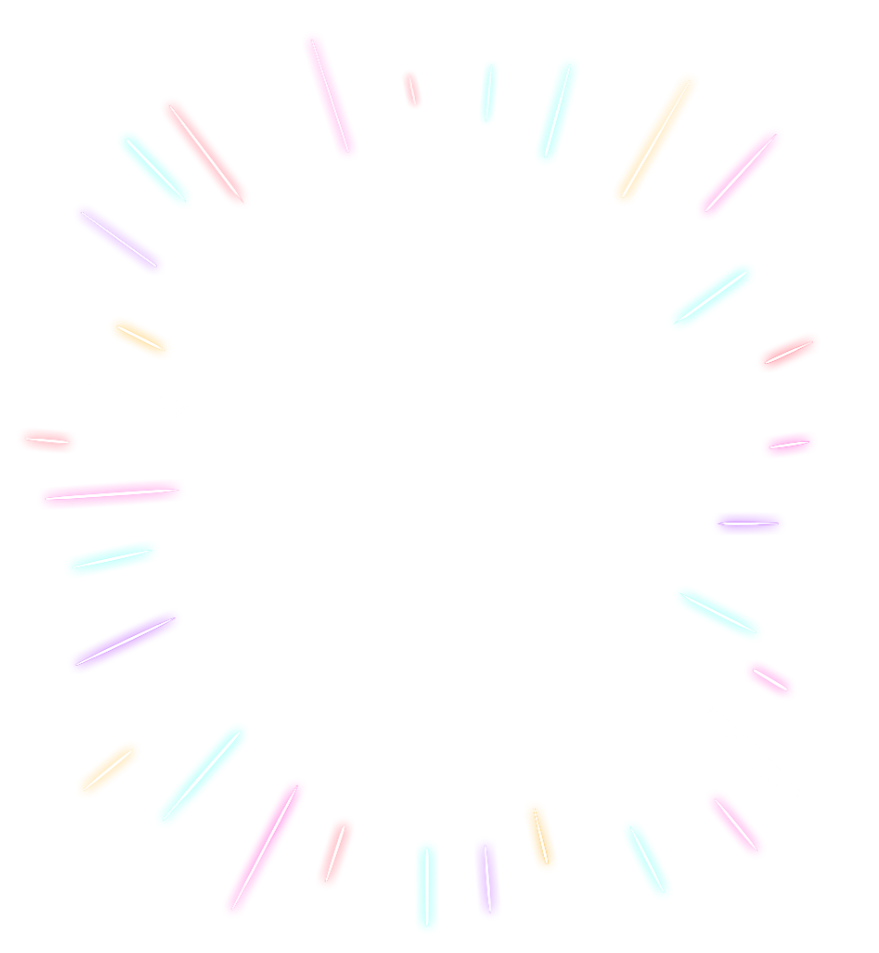
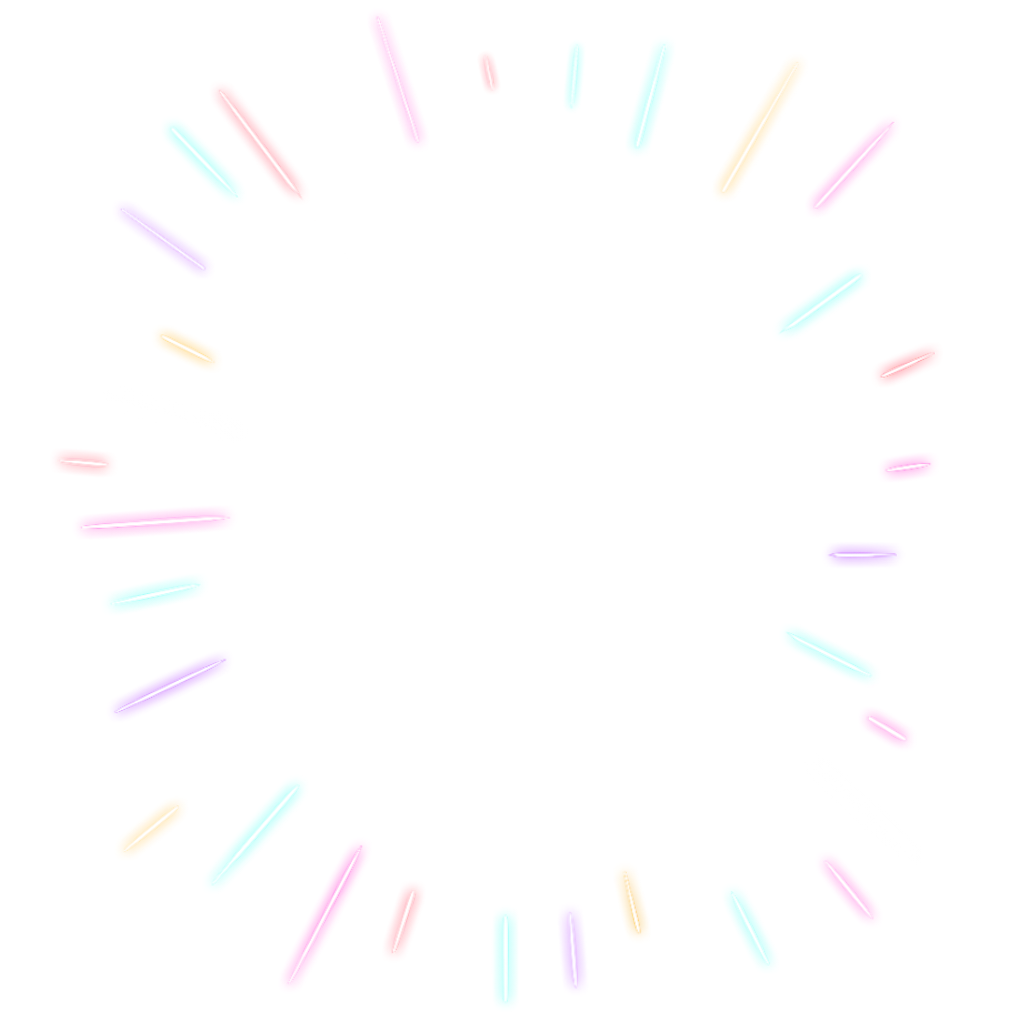
added flares

diff --git a/CustomMarvelSnap/CardMaker/script.js b/CustomMarvelSnap/CardMaker/script.js
@@ -368,11 +368,12 @@ for (const category in frameCategories) {
 // Add Effects to effectSelectPopup
 const effectSelectDiv = document.getElementById('effectSelectDiv');
 const effectDir = '../res/img/effects/';
-const effectCategories = { 'krackle': 'Krackle', 'tone': 'Tone' };
+const effectCategories = { 'krackle': 'Krackle', 'tone': 'Tone', 'glimmer': 'Glimmer' };
 const effects = {
     'krackle': ['black', 'blue', 'gold', 'green', 'purple', 'rainbow', 'red', 'white'],
     'tone': ['black', 'blue', 'gold', 'green', 'purple', 'rainbow', 'red', 'white'],
-    'glimmer': ['black', 'blue', 'gold', 'green', 'purple', 'rainbow', 'red', 'white']
+    'glimmer': ['black', 'blue', 'gold', 'green', 'purple', 'rainbow', 'red', 'white'],
+    'special': ['neontrails']
 };
 
 for (const category in effectCategories) {
